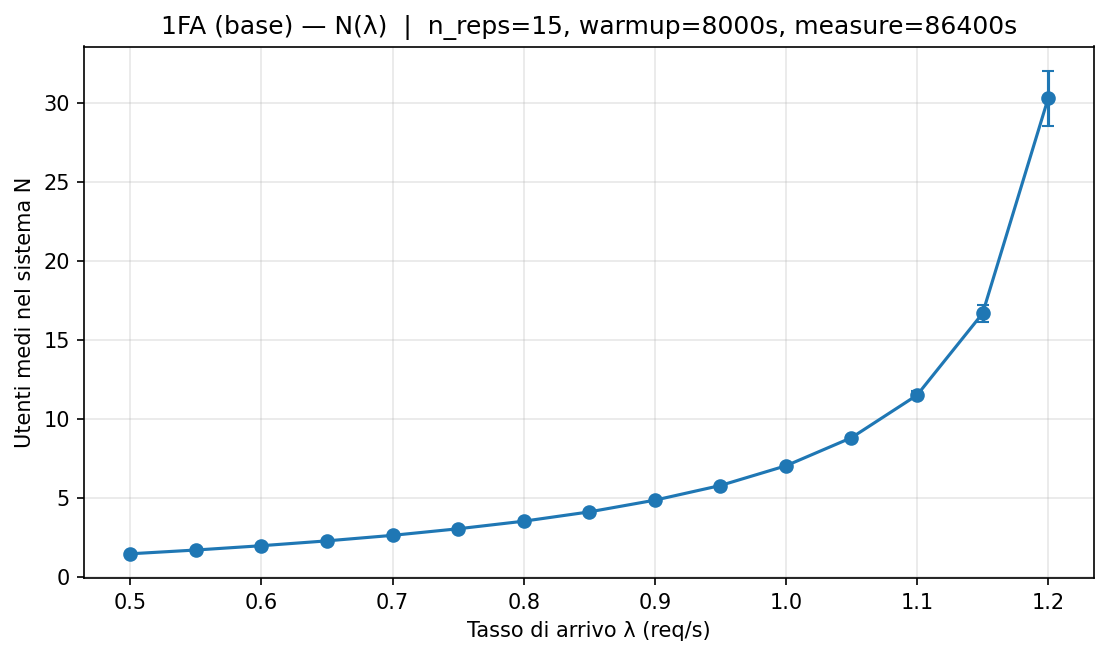
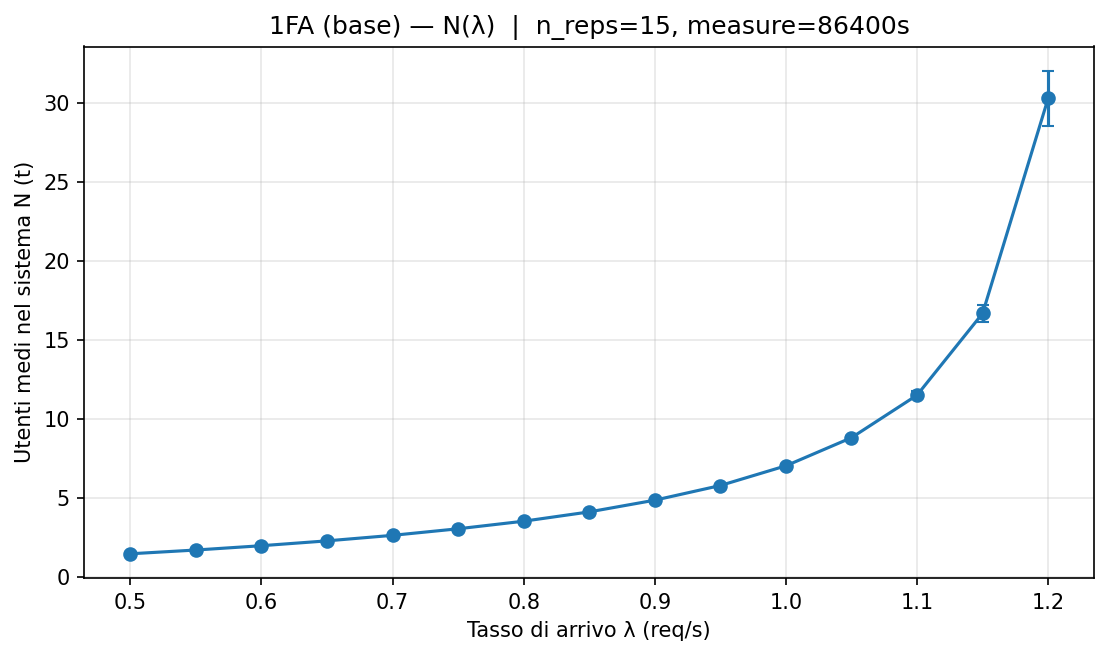
Refactor stress test and improve plot labeling
Replaces plot_lambda_sweep_explosion with plot_step_stress_test for transient stress testing and adds run_lambda_validation_continuous_rng for continuous RNG validation. Updates plot labels and titles in running_convergence.py, running_validation.py, and view/convergence_plot.py for clarity and consistency, switching from [s] to [t] and improving Italian/English terminology. Updates PNG output files accordingly.

Changed region(s): [[0.1533, 0.0305, 0.9197, 0.061], [0.0, 0.2439, 0.0307, 0.7012]]

diff --git a/model/validation/stresstest.py b/model/validation/stresstest.py
@@ -1,8 +1,9 @@
-import matplotlib.pyplot as plt
 import numpy as np
-
-from model.scenario import Scenario
+import matplotlib.pyplot as plt
+import matplotlib.ticker as ticker
 from model.ecommerce import EcommerceModel
+from model.scenario import Scenario
+from rndbook.rngs import plantSeeds
 
 
 def plot_stress_transient(config_path):
@@ -42,72 +43,63 @@ def plot_stress_transient(config_path):
 
     plt.show()
 
-def plot_lambda_sweep_explosion(config_path):
-    """
-    Produce un grafico che mostra l'esplosione del tempo di risposta
-    all'aumentare del tasso di arrivo lambda (Stress Test Asintotico).
-    """
-    # 1. Caricamento scenario base per estrarre le domande di servizio
+def plot_step_stress_test(config_path):
+    #ATTENZIONE fase transiente diverse lambda, non vengono smaltite le richieste quindi cresce fortissimo
     scn = Scenario.from_yaml(config_path)
 
-    # Calcolo teorico della soglia di saturazione (1 / D_max)
-    # Basato sulle tue medie: A=0.2+0.4+0.1=0.7, B=0.8, P=0.4 (dai tuoi log precedenti)
-    # Se B è il collo di bottiglia con D_B = 0.8s, allora lambda_critico = 1.25
-    d_max = 0.8  # Domanda di servizio massima (collo di bottiglia)
-    lambda_critico = 1.0 / d_max
+    # 1. Setup Lambda e Modello Unico
+    lambda_critico = 1.25
+    lambdas = [0.2, 0.4, 0.6, 0.8, 1.0, 1.2, 1.3]  # Esempio di rampa
 
-    # Definiamo un range di lambda che attraversi la soglia critica
-    # Es: da 0.2 fino a poco oltre il limite critico
-    lambdas = np.linspace(0.2, lambda_critico + 0.2, 15)
+    step_duration = 2000  # Tempo trascorso per ogni livello di carico
+
+    model = EcommerceModel(scn, seed=42)
+
     results_R = []
-    results_CI = []
+    time_axis = []
 
-    print(f"Inizio sweep di lambda per scenario: {scn.name}")
-    print(f"Soglia critica teorica prevista: {lambda_critico:.3f} req/s")
+    print(f"--- Inizio Simulazione Step-Stress Unica ---")
 
-    for lam in lambdas:
-        # Istanza del modello per ogni lambda
-        model = EcommerceModel(scn, seed=42)
+    current_time = 0
+    for i, lam in enumerate(lambdas):
+        # Cambiamo il tasso di arrivo "al volo"
         model.set_arrival_rate(lam)
 
-        # Eseguiamo run_finite con orizzonte fisso (es. 2000s)
-        # trace_convergence=True ci serve per ottenere l'ultimo intervallo di confidenza
-        res = model.run_finite(horizon_s=2000, warmup_s=200, trace_convergence=True)
+        # Definiamo la fine di questo step
+        current_time += step_duration
 
-        # Prendiamo l'ultima media e l'ultimo half-width calcolati
-        if res["R_convergence_trace"]:
-            last_t, last_mean, last_hw = res["R_convergence_trace"][-1]
-            results_R.append(last_mean)
-            results_CI.append(last_hw)
-        else:
-            results_R.append(float('nan'))
-            results_CI.append(0)
+        # Eseguiamo la simulazione continuando dalla posizione attuale
+        # Usiamo un warmup interno per ignorare il "colpo" del cambio di carico
+        res = model.run_finite(horizon_s=current_time, warmup_s=current_time - 1000)
 
-    # 3. Generazione del Grafico "a impennata"
-    plt.figure(figsize=(10, 6))
+        r_val = res.get("R_mean_s", float('nan'))
+        results_R.append(r_val)
+        time_axis.append(lam)  # Usiamo lambda come asse X per vedere la curva
 
-    # Plot dei risultati con barre di errore (CI95)
-    plt.errorbar(lambdas, results_R, yerr=results_CI, fmt='o-', color='red',
-                 ecolor='gray', capsize=5, label='R medio (Simulazione)')
+        status = "STABILE" if lam < lambda_critico else "INSTABILE"
+        print(f"Time {current_time}s | Lambda {lam:.2f} | R {r_val:.2f}s | {status}")
 
-    # Linea verticale per il limite teorico
-    plt.axvline(x=lambda_critico, color='black', linestyle='--', alpha=0.7,
-                label=f'Limite teorico (1/Dmax = {lambda_critico:.2f})')
+    # --- Grafico della Curva di Risposta ---
+    fig, ax1 = plt.subplots(figsize=(10, 6))
 
-    plt.title(f"Stress Test: Esplosione di R al variare di lambda - {scn.name}")
-    plt.xlabel("Tasso di arrivo lambda (req/s)")
-    plt.ylabel("Tempo di risposta medio R (s)")
-    plt.yscale('log')  # Scala logaritmica utile per vedere bene l'impennata
-    plt.grid(True, which="both", linestyle='--', alpha=0.5)
-    plt.legend()
+    # Curva di risposta
+    ax1.plot(lambdas, results_R, 'o-', color='tab:red', linewidth=2, label='R medio nel gradino')
+    ax1.axvline(x=lambda_critico, color='black', linestyle='--', label='Soglia Saturazione')
 
-    # Annotazione del regime di instabilità
-    plt.fill_betweenx([min(results_R), max(results_R)], lambda_critico, max(lambdas),
-                      color='orange', alpha=0.1, label='Zona Instabilità')
+    # Formattazione
+    ax1.set_yscale('log')
+    ax1.set_xlabel('Arrival Rate $lambda$ (req/s)')
+    ax1.set_ylabel('Response Time $R$ (s) - Log Scale')
+    ax1.set_title('Step-Stress Test: Evoluzione del Sistema in Simulazione Unica')
 
+    # Griglia e Legenda
+    ax1.grid(True, which="both", ls="-", alpha=0.3)
+    ax1.legend()
+
+    plt.tight_layout()
     plt.show()
 
-def run_batch_means_sweepST(config_path, lambda_min=0.2, lambda_max=2, steps=10):
+def run_batch_means_sweepST(config_path, lambda_min=0.2, lambda_max=1.4, steps=10):
     scn = Scenario.from_yaml(config_path)
     lambdas = np.linspace(lambda_min, lambda_max, steps)
 
@@ -136,6 +128,58 @@ def run_batch_means_sweepST(config_path, lambda_min=0.2, lambda_max=2, steps=10)
         results_HW.append(hw)
 
     return lambdas, results_R, results_HW
+
+def run_lambda_validation_continuous_rng(config_path):
+    scn = Scenario.from_yaml(config_path)
+
+    lambdas = np.linspace(0.20, 1.25, 20)
+    results_R = []
+    WARMUP = 0.0
+    MEASURE = 40000.0
+
+    plantSeeds(1234)
+    model = EcommerceModel(scn)
+
+    for lam in lambdas:
+        print(f"Simulazione per lambda = {lam:.3f}...", end=" ", flush=True)
+        model.set_arrival_rate(lam)
+        res = model.run_finite(horizon_s=MEASURE, warmup_s=WARMUP, verbose=False, trace_convergence=True)
+
+        trace_R = res.get("R_convergence_trace", [])
+        if trace_R:
+            r_mean = trace_R[-1][1]
+            results_R.append(r_mean)
+            print(f"R medio: {r_mean:.4f}")
+        else:
+            results_R.append(np.nan)
+        MEASURE=MEASURE+40000
+
+    # --- 2. GENERAZIONE GRAFICO ---
+    fig, ax = plt.subplots(figsize=(10, 6))
+    ax.plot(lambdas, results_R, 'o-', color='tab:green', label='Steady-state R (Continuous RNG)')
+
+    # Granularità asse Y: un segno ogni 10 unità
+    ax.yaxis.set_major_locator(ticker.MultipleLocator(10))
+
+    # Zoom: impostiamo il limite massimo poco sopra il valore massimo trovato
+    # (es. se R_max è 192, il limite sarà 200)
+    if not np.isnan(results_R).all():
+        plt.ylim(0, max(results_R) + 10)
+
+    # Riga critica e ticks asse X
+    plt.axvline(x=1.25, color='red', linestyle='--', linewidth=2, label='$\lambda_{crit} = 1.25$')
+    current_ticks = list(plt.xticks()[0])
+    if 1.25 not in current_ticks:
+        plt.xticks(sorted(current_ticks + [1.25]))
+
+    plt.title(f"Validazione: $R$ vs $\lambda$ - Seed Unico Iniziale\nScenario: {scn.name}")
+    plt.xlabel("Arrival Rate $\lambda$ (jobs/s)")
+    plt.ylabel("Mean Response Time $R$ (s)")
+    plt.grid(True, linestyle='--', alpha=0.6)
+    plt.legend()
+
+    print("\n[INFO] Generazione grafico completata.")
+    plt.show()
 # Esempio di utilizzo:
 # plot_lambda_sweep_explosion("config/1FA_base.yaml")
 # plot_stress_transient("config/1FA_stress.yaml")

diff --git a/main.py b/main.py
@@ -3,7 +3,9 @@ from __future__ import annotations
 
 from matplotlib import pyplot as plt
 
-from model.validation.stresstest import plot_stress_transient, plot_lambda_sweep_explosion, run_batch_means_sweepST
+from model.validation.stresstest import plot_stress_transient, plot_step_stress_test, \
+    run_lambda_validation_continuous_rng, \
+    run_batch_means_sweepST
 from running_simulator.running_validation import run_phase_validation
 from running_simulator.running_convergence import run_phase_convergence
 from running_simulator.running_steady_state import run_single_lambda_batch_means
@@ -16,26 +18,45 @@ def main() -> None:
     config_dir = DEFAULT_CONFIG_DIR
 
     #print(f"[INFO] finite horizon run - validation study")
-    #run_phase_validation(config_dir=config_dir)
+    run_phase_validation(config_dir=config_dir)
 
     #print(f"[INFO] finite horizon run - convergence study")
-    #run_phase_convergence(config_dir=config_dir)
+    run_phase_convergence(config_dir=config_dir)
 
     #print(f"[INFO] batch-means one-λ | λ=0.33")
     #run_single_lambda_batch_means(config_dir=config_dir, n_batches=64)
 
     #la validazione va svolta sullo stato stazionario, eseguiamo uno stress test di quest'ultimo
-    plot_stress_transient(config_path="config/scenario_1fa_base.yaml")
-    plot_lambda_sweep_explosion(config_path="config/scenario_1fa_base.yaml")
+    #plot_stress_transient(config_path="config/scenario_1fa_base.yaml")
+    #plot_step_stress_test(config_path="config/scenario_1fa_base.yaml")
+
+    #run_batch_means_sweepST(config_path="config/scenario_1fa_base.yaml")
+    # Carichiamo lo scenario base (1FA)
+    config_path = "config/scenario_1fa_base.yaml"
+
+    # Eseguiamo lo sweep: da lambda molto basso (0.1) a oltre la saturazione (1.4)
+
+    """
+    lambdas, r_means, r_hws = run_batch_means_sweepST(config_path=config_path)
+    # Visualizzazione dei risultati
+    plt.figure(figsize=(10, 6))
+    # Disegniamo la curva con le barre d'errore (intervalli di confidenza)
+    plt.errorbar(lambdas, r_means, yerr=r_hws, fmt='-o', capsize=5, label='R medio (Batch Means)')
+    # Aggiungiamo il limite asintotico inferiore (1.9s)
+    plt.axhline(y=1.9, color='g', linestyle='--', label='Limite teorico R_min (1.9s)')
+    # Aggiungiamo il limite di saturazione teorico (lambda = 1.25)
+    plt.axvline(x=1.25, color='r', linestyle=':', label='Saturazione teorica (lambda=1.25)')
+    plt.title("Sweep di Validazione: Tempo di Risposta vs Carico Arrivi")
+    plt.xlabel("Tasso di Arrivo (lambda - req/s)")
+    plt.ylabel("Tempo di Risposta Medio (s)")
+    plt.legend()
+    plt.grid(True, alpha=0.3)
+    plt.show()
+"""
 
     # Generazione del grafico
-    lambdas, R, hw = run_batch_means_sweepST("config/scenario_1fa_base.yaml")
-    plt.errorbar(lambdas, R, yerr=hw, fmt='-o', capsize=5, label="Batch Means R ± CI95")
-    plt.xlabel("λ (Arrival Rate)")
-    plt.ylabel("R (Response Time)")
-    plt.title("Studio Steady-State al variare di λ")
-    plt.grid(True)
-    plt.show()
+    run_lambda_validation_continuous_rng(config_path="config/scenario_1fa_base.yaml")
+
     #verifica della distribuzione iper-esponenziale
 
 if __name__ == "__main__":

diff --git a/running_simulator/running_convergence.py b/running_simulator/running_convergence.py
@@ -104,7 +104,7 @@ def _run_overlay_continued_rng(
             fname_R = single_R_dir / f"Run{k}_R_CI_{scn_slug}.png"
             _plot_ci_run(times, means, hws,
                          title=f"Run {k} - R(t) ± Internal CI",
-                         ylabel="Response Time (s)",
+                         ylabel="Response Time R(t)",
                          filename=str(fname_R),
                          color_line=this_run_color,
                          color_fill=this_run_color)
@@ -121,7 +121,7 @@ def _run_overlay_continued_rng(
             fname_N = single_N_dir / f"Run{k}_N_CI_{scn_slug}.png"
             _plot_ci_run(times_n, means_n, hws_n,
                          title=f"Run {k} - N(t) ± Internal CI",
-                         ylabel="Avg Users (N)",
+                         ylabel="Avg Users N(t)",
                          filename=str(fname_N),
                          color_line=this_run_color,
                          color_fill=this_run_color)
@@ -131,13 +131,13 @@ def _run_overlay_continued_rng(
     # Overlay R
     png_overlay_R = outdir / f"Overlay_R_Multi_{scn_slug}.png"
     plot_convergence_R_multi(all_runs_R_means, lam=lam, scn=scn,
-                             title=f"Overlay {runs} Runs - R(t)",
+                             title=f"Overlay {runs} Repliche - R(t)",
                              outfile=str(png_overlay_R), show=False)
 
     # Overlay N
     png_overlay_N = outdir / f"Overlay_N_Multi_{scn_slug}.png"  # <--- NUOVO
     plot_convergence_N_multi(all_runs_N_means, lam=lam, scn=scn,  # <--- NUOVO
-                             title=f"Overlay {runs} Runs - N(t)",
+                             title=f"Overlay {runs} Repliche - N(t)",
                              outfile=str(png_overlay_N), show=False)
 # ---------------- entrypoint ----------------
 def run_phase_convergence(config_dir: str = DEFAULT_CONFIG_DIR) -> None:

diff --git a/running_simulator/running_validation.py b/running_simulator/running_validation.py
@@ -156,8 +156,8 @@ def sweep_R_and_N_vs_lambda(
     plt.figure(figsize=(7.5, 4.5))
     plt.errorbar(lambdas, R_means, yerr=R_errs, fmt='-o', capsize=3, label="R mean ± CI95")
     plt.xlabel("Tasso di arrivo λ (req/s)")
-    plt.ylabel("Tempo di risposta medio R (s)")
-    plt.title(f"{scenario_label} — R(λ)  |  n_reps={n_reps}, warmup={int(warmup_s)}s, measure={int(measure_s)}s")
+    plt.ylabel("Tempo di risposta medio R (t)")
+    plt.title(f"{scenario_label} — R(λ)  |  n_reps={n_reps}, measure={int(measure_s)}s")
     plt.grid(True, alpha=0.3)
     plt.tight_layout()
     if save_png:
@@ -174,8 +174,8 @@ def sweep_R_and_N_vs_lambda(
     plt.figure(figsize=(7.5, 4.5))
     plt.errorbar(lambdas, N_means, yerr=N_errs, fmt='-o', capsize=3, label="N = X·R ± CI95")
     plt.xlabel("Tasso di arrivo λ (req/s)")
-    plt.ylabel("Utenti medi nel sistema N")
-    plt.title(f"{scenario_label} — N(λ)  |  n_reps={n_reps}, warmup={int(warmup_s)}s, measure={int(measure_s)}s")
+    plt.ylabel("Utenti medi nel sistema N (t)")
+    plt.title(f"{scenario_label} — N(λ)  |  n_reps={n_reps}, measure={int(measure_s)}s")
     plt.grid(True, alpha=0.3)
     plt.tight_layout()
     if save_png:

diff --git a/view/convergence_plot.py b/view/convergence_plot.py
@@ -75,8 +75,8 @@ def plot_convergence_R_multi(R_cum_list, *, lam=None, scn=None, title=None,
 
     if title:
         plt.title(title)
-    plt.xlabel("Tempo di simulazione [s]")
-    plt.ylabel("Tempo di risposta medio R [s]")
+    plt.xlabel("Tempo di simulazione [t]")
+    plt.ylabel("Tempo di risposta medio R [t]")
     plt.grid(True, alpha=0.3)
     plt.legend()
     plt.tight_layout()
@@ -153,8 +153,8 @@ def plot_convergence_N_multi(N_cum_list, *, lam=None, scn=None, title=None,
 
     if title:
         plt.title(title)
-    plt.xlabel("Tempo di simulazione [s]")
-    plt.ylabel("Numero medio N [-]")
+    plt.xlabel("Tempo di simulazione [t]")
+    plt.ylabel("Numero medio N [t]")
     plt.grid(True, alpha=0.3)
     plt.legend()
     plt.tight_layout()
